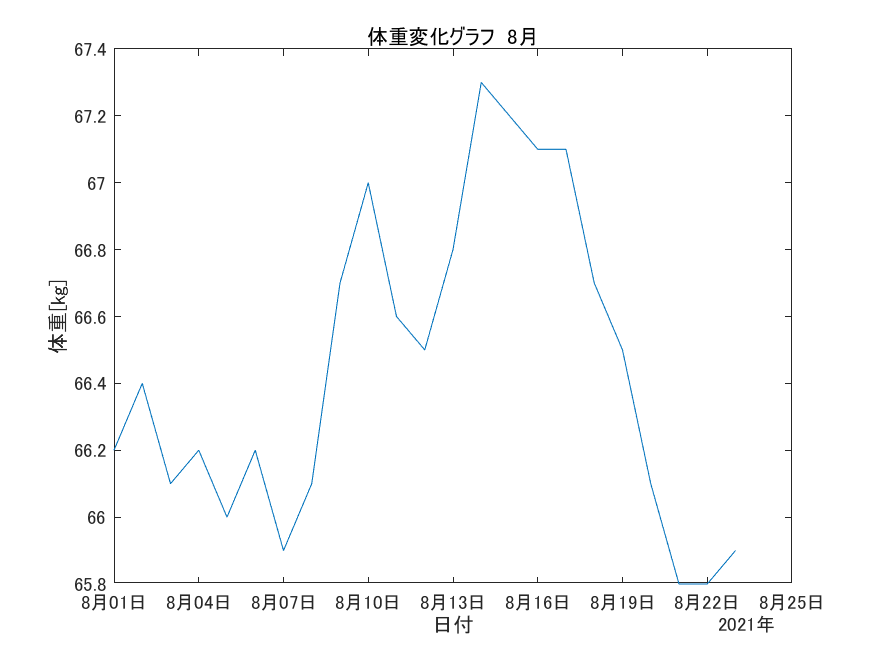
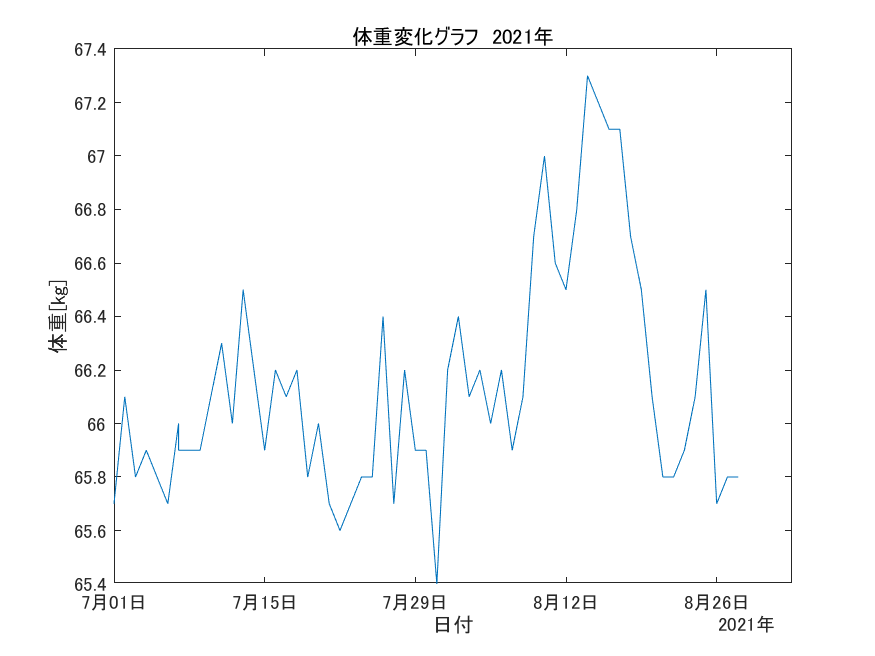
Add weight list script and date

diff --git a/MATLAB_Octave/WeightTable/draw_weight_series.m b/MATLAB_Octave/WeightTable/draw_weight_series.m
@@ -1,9 +1,9 @@
 % CSVファイル読み込み
-T = readtable('WeightListAug2021.csv');
+T = readtable('WeightList.csv');
 
 % 体重変化グラフを表示
 plot(T.Date, T.Weight)
-title('体重変化グラフ　8月')
+title('体重変化グラフ　2021年')
 xlabel('日付')
 ylabel('体重[kg]')
 saveas(gcf, 'WeightGraph.png')
@@ -14,3 +14,10 @@ title('体重と体脂肪率の関係')
 xlabel('体重[kg]')
 ylabel('体脂肪率[%]')
 saveas(gcf, 'WeightRatio.png')
+
+% 体重のヒストグラムを表示
+histogram(T.Weight)
+title('体重のヒストグラム')
+xlabel('体重[kg]')
+ylabel('頻度')
+saveas(gcf, 'WeightHistogram.png')
